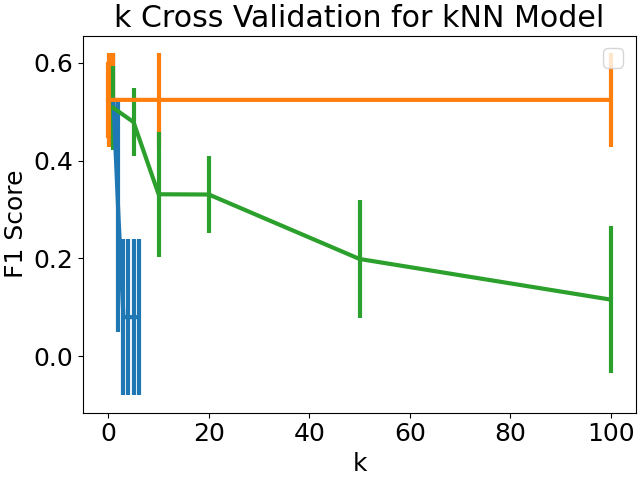
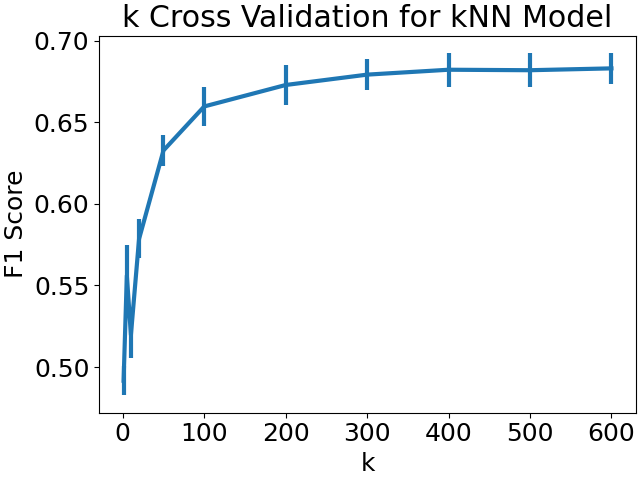
Train and test models
This commit trains and tests the models - adjusting the various
hyperparameters based on the cross-validation results. The
cross-validation plots have also been fixed to only include the correct
errorbar.

diff --git a/code/chart_predictor.py b/code/chart_predictor.py
@@ -54,8 +54,9 @@ X_train, X_validate, y_train, y_validate = train_test_split(X, y, test_size=0.2,
 baseline_model = DummyClassifier(strategy="most_frequent")
 baseline_model.fit(X_train, y_train)
 baseline_preds = baseline_model.predict(X_validate)
+print("------------------------Baseline------------------------")
 print(confusion_matrix(y_validate, baseline_preds))
-print(classification_report(y_validate, baseline_preds))
+print(classification_report(y_validate, baseline_preds, zero_division=0))
 
 # Perform cross validation to select q.
 mean_error = []
@@ -64,7 +65,7 @@ q_range = [1, 2, 3, 4, 5, 6]
 kf = KFold(n_splits=5)
 for q in q_range:
   X_poly = PolynomialFeatures(q).fit_transform(X_train)
-  model = LogisticRegression(penalty="l2", C=1)
+  model = LogisticRegression(penalty="l2", C=1, max_iter=1000)
   scores = cross_val_score(model, X_poly, y_train, cv=kf, scoring="f1")
   mean_error.append(np.array(scores).mean())
   std_error.append(np.array(scores).std())
@@ -73,13 +74,13 @@ plt.errorbar(q_range, mean_error, yerr=std_error, linewidth=3)
 plt.xlabel("q")
 plt.ylabel("F1 Score")
 plt.title("q Cross Validation for Logistic Regression Model")
-plt.legend()
 plt.savefig("./plots/lr-q-cross-validation.png")
+plt.clf()
 
 # Perform cross validation to select C.
 mean_error = []
 std_error = []
-c_range = [0.01, 0.1, 1, 10, 100]
+c_range = [0.01, 0.1, 1, 5, 10, 15, 20]
 kf = KFold(n_splits=5)
 for c in c_range:
   model = LogisticRegression(penalty="l2", C=c)
@@ -92,20 +93,25 @@ plt.errorbar(c_range, mean_error, yerr=std_error, linewidth=3)
 plt.xlabel("C")
 plt.ylabel("F1 Score")
 plt.title("C Cross Validation for Logistic Regression Model")
-plt.legend()
 plt.savefig("./plots/lr-C-cross-validation.png")
+plt.clf()
 
-# Train logistic regression classifier (with L2 penalty) with hyperparameters from cross-validation.
-lrl2_model = LogisticRegression(penalty="l2", C=1000)
+# Train logistic regression classifier (with L2 penalty) with hyperparameters selected from cross-validation.
+lrl2_model = LogisticRegression(penalty="l2", C=10)
+#poly = PolynomialFeatures(4)
+#lrl2_model.fit(poly.fit_transform(X_train), y_train)
+#lrl2_preds = lrl2_model.predict(poly.fit_transform(X_validate))
 lrl2_model.fit(X_train, y_train)
 lrl2_preds = lrl2_model.predict(X_validate)
+print("------------------Logistic Regression------------------")
+print(lrl2_model.coef_[0])
 print(confusion_matrix(y_validate, lrl2_preds))
 print(classification_report(y_validate, lrl2_preds))
 
 # Perform cross validation to select k.
 mean_error = []
 std_error = []
-k_range = [1, 5, 10, 20, 50, 100]
+k_range = [1, 5, 10, 20, 50, 100, 200, 300, 400, 500, 600]
 kf = KFold(n_splits=5)
 for k in k_range:
   from sklearn.neighbors import KNeighborsClassifier
@@ -119,13 +125,14 @@ plt.errorbar(k_range, mean_error, yerr=std_error, linewidth=3)
 plt.xlabel("k")
 plt.ylabel("F1 Score")
 plt.title("k Cross Validation for kNN Model")
-plt.legend()
 plt.savefig("./plots/kNN-k-cross-validation.png")
+plt.clf()
 
 # Train kNN classifier with k selected from cross-validation.
-kNN_model = KNeighborsClassifier(n_neighbors=5)
+kNN_model = KNeighborsClassifier(n_neighbors=500)
 kNN_model.fit(X_train, y_train)
 kNN_preds = kNN_model.predict(X_validate)
+print("--------------------------kNN--------------------------")
 print(confusion_matrix(y_validate, kNN_preds))
 print(classification_report(y_validate, kNN_preds))
 
@@ -165,10 +172,12 @@ plt.xlabel("C")
 plt.ylabel("F1 Score")
 plt.title("C Cross Validation for Kernalized SVM Model")
 plt.savefig("./plots/svm-gamma-cross-validation.png")
+plt.clf()
 
 # Train kernalised SVM classifier with hyperparameters from cross-validation.
 svm_model = SVC(C=100, kernel="rbf", gamma=2, probability=True).fit(X_train, y_train)
 svm_preds = svm_model.predict(X_validate)
+print("---------------------Kernalized SVM---------------------")
 print(confusion_matrix(y_validate, svm_preds))
 print(classification_report(y_validate, svm_preds))
 
